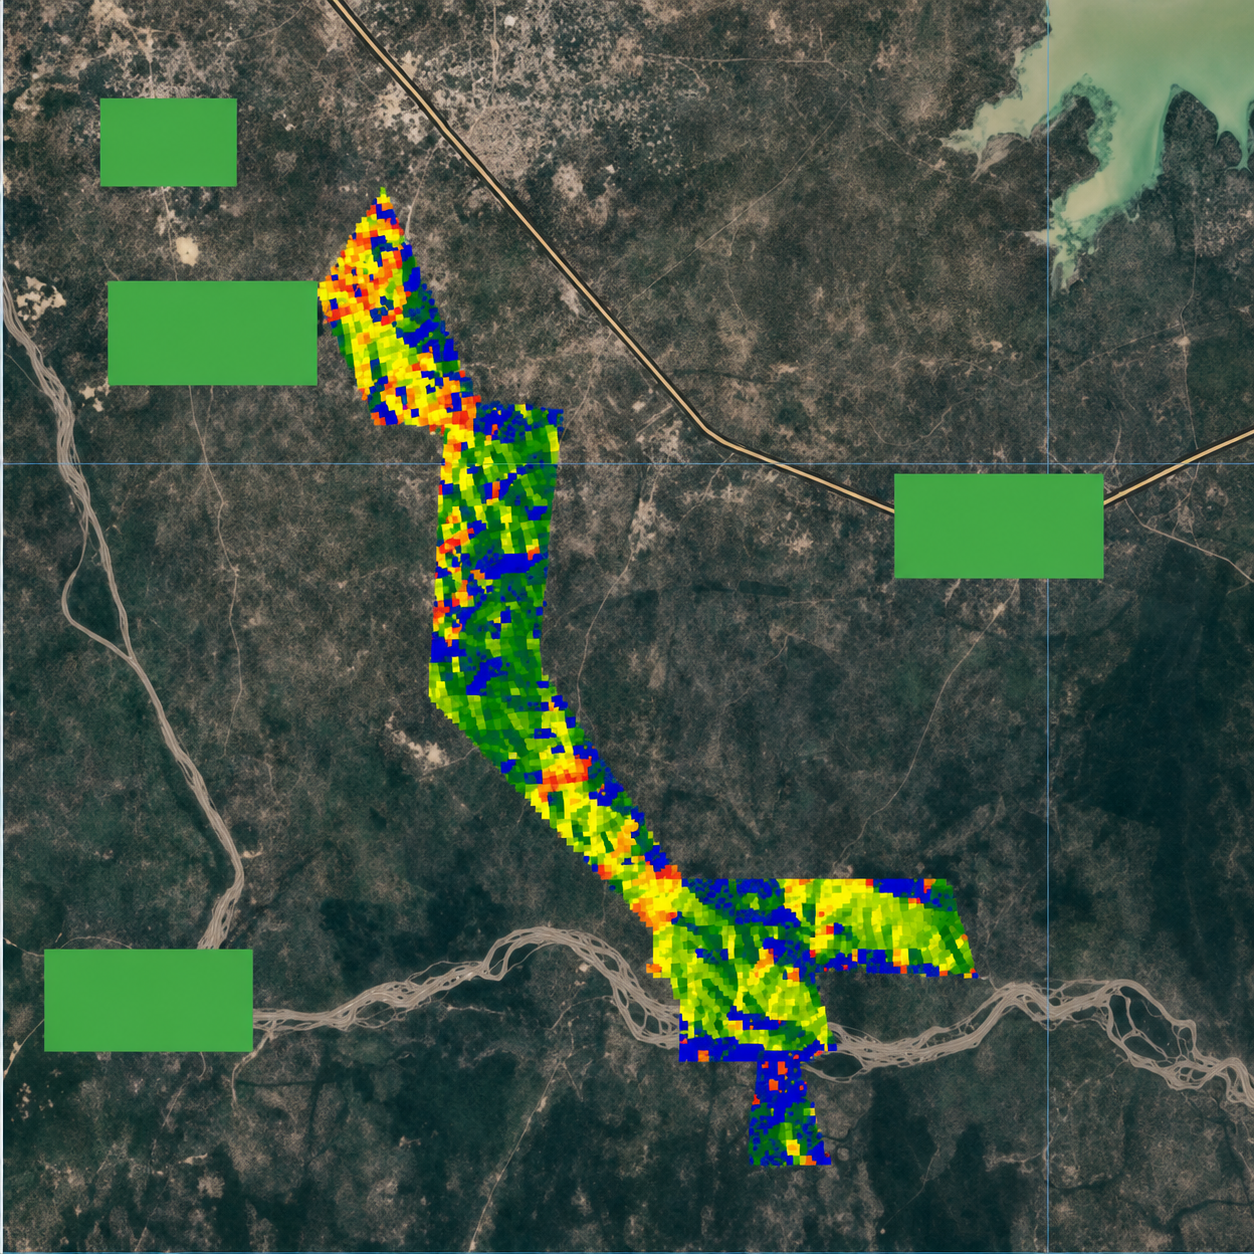
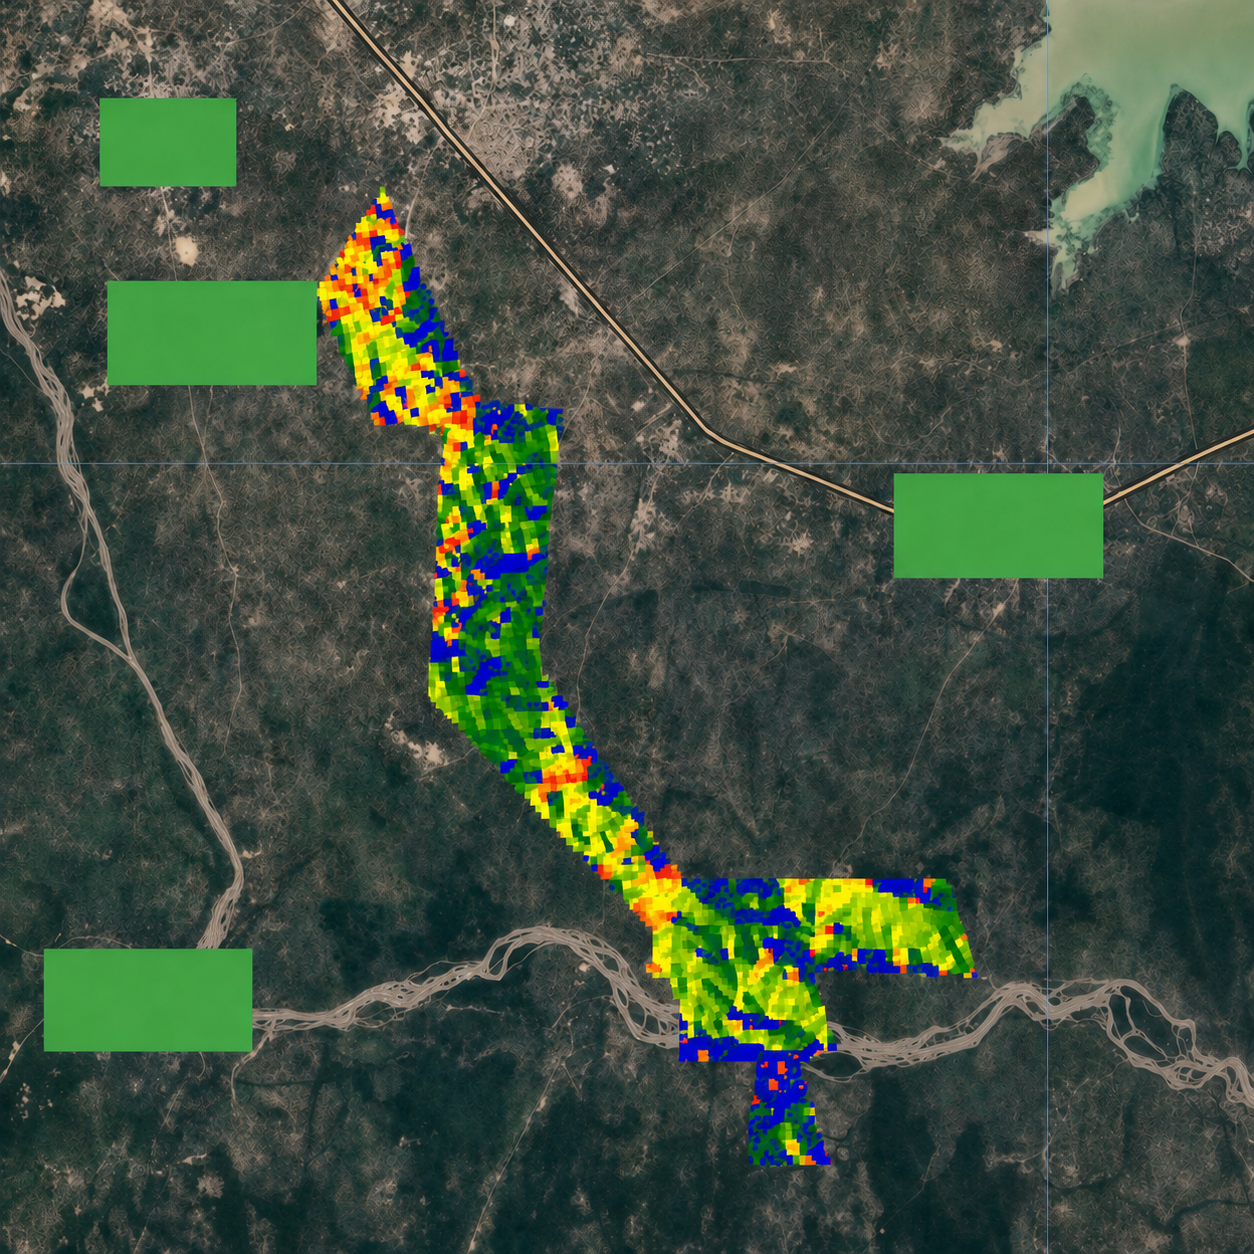
updates

diff --git a/gallery.html b/gallery.html
@@ -85,6 +85,7 @@
 <img src="assets/gallery/Chemical dosing system (1).jpg" alt="SA Autec Industries gallery image: Chemical dosing system (1)" class="gallery-item reveal" loading="lazy">
 <img src="assets/gallery/Chemical dosing system (2).jpg" alt="SA Autec Industries gallery image: Chemical dosing system (2)" class="gallery-item reveal" loading="lazy">
 <img src="assets/gallery/Chemical dosing system (3).jpg" alt="SA Autec Industries gallery image: Chemical dosing system (3)" class="gallery-item reveal" loading="lazy">
+<img src="assets/gallery/CIL design.png" alt="SA Autec Industries gallery image: CIL design" class="gallery-item reveal" loading="lazy">
 <img src="assets/gallery/CIL Plant (1).jpg" alt="SA Autec Industries gallery image: CIL Plant (1)" class="gallery-item reveal" loading="lazy">
 <img src="assets/gallery/CIL Plant (10).jpg" alt="SA Autec Industries gallery image: CIL Plant (10)" class="gallery-item reveal" loading="lazy">
 <img src="assets/gallery/CIL Plant (11).jpg" alt="SA Autec Industries gallery image: CIL Plant (11)" class="gallery-item reveal" loading="lazy">

diff --git a/services.html b/services.html
@@ -92,7 +92,7 @@
             </div>
           </article>
           <article class="service-row reveal" id="processing-plant-assessment-custom-design">
-            <img src="assets/gallery/CIL Plant (4).jpg" alt="Processing plant assessment and custom design" loading="lazy" decoding="async" />
+            <img src="assets/gallery/CIL design.png" alt="Processing plant assessment and custom CIL design" loading="lazy" decoding="async" />
             <div>
               <p class="section-kicker">02</p>
               <h2>Processing Plant Assessment &amp; Custom Design</h2>
